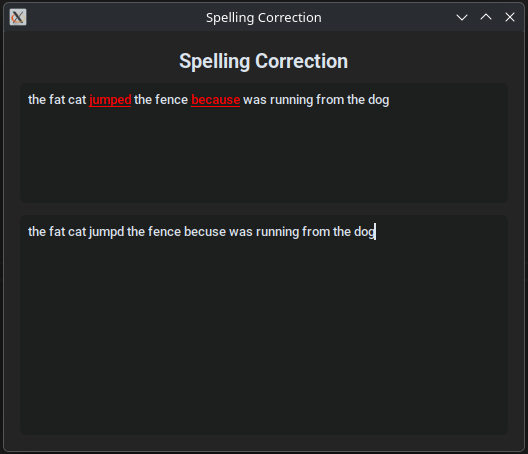
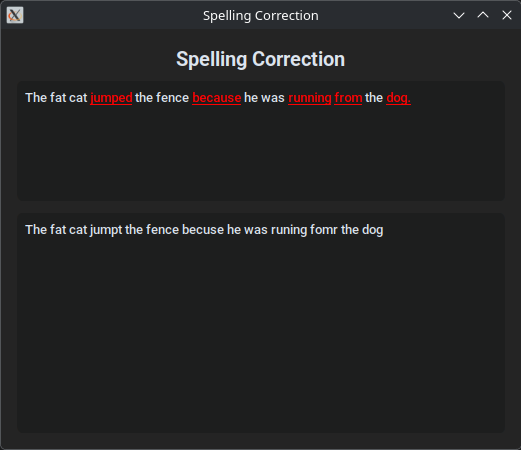
Added GUI inference using the latest trained spelling correction model. The interface now loads the fine-tuned model and displays corrected text from user input.

Changed region(s): [[0.0, 0.0, 1.0, 1.0], [0.3378, 0.0933, 0.6756, 0.1556], [0.3071, 0.4978, 0.737, 0.5289]]

diff --git a/main.py b/main.py
@@ -1,0 +1,179 @@
+import difflib
+import customtkinter as ctk
+import torch
+from transformers import AutoModelForCausalLM, AutoTokenizer, pipeline
+
+class SpellingGUI:
+    def __init__(self):
+        self.model_path = './qwen_spelling_model/final'
+        self.device = 'cuda' if torch.cuda.is_available() else 'cpu'
+        self.after_id = None
+
+        self.tokenizer = AutoTokenizer.from_pretrained(
+            self.model_path,
+        )
+
+        self.model = AutoModelForCausalLM.from_pretrained(
+            self.model_path,
+            dtype=torch.bfloat16 if self.device == 'cuda' else torch.float32,
+        ).to(self.device)
+
+        self.model.eval()
+
+        self.pipe = pipeline(
+            'text-generation',
+            model=self.model,
+            tokenizer=self.tokenizer,
+        )
+
+    def mirror_text(self, event=None):
+        if self.after_id:
+            self.input_box.after_cancel(self.after_id)
+
+        self.after_id = self.input_box.after(
+            500,
+            self.correct_text,
+        )
+
+    def correct_text(self):
+        content = self.input_box.get('1.0', 'end-1c').strip()
+
+        if not content:
+            self.update_output('', '')
+            return
+
+        messages = [
+            {
+                'role': 'user',
+                'content': content,
+            }
+        ]
+
+        prompt = self.tokenizer.apply_chat_template(
+            messages,
+            tokenize=False,
+            add_generation_prompt=True,
+            enable_thinking=False,
+        )
+
+        output = self.pipe(
+            prompt,
+            max_new_tokens=128,
+            do_sample=False,
+            return_full_text=False,
+            pad_token_id=self.tokenizer.eos_token_id,
+        )
+
+        corrected_text = output[0]['generated_text'].strip()
+
+        self.update_output(
+            content,
+            corrected_text,
+        )
+
+    def update_output(self, original_text, corrected_text):
+        self.output_box.configure(state='normal')
+        self.output_box.delete('1.0', 'end')
+
+        original_words = original_text.split()
+        corrected_words = corrected_text.split()
+
+        matcher = difflib.SequenceMatcher(
+            None,
+            original_words,
+            corrected_words,
+        )
+
+        output_words = []
+        styled_words = []
+
+        for operation, _, _, corrected_start, corrected_end in matcher.get_opcodes():
+            words = corrected_words[corrected_start:corrected_end]
+
+            output_words.extend(words)
+            styled_words.extend(
+                [operation != 'equal'] * len(words)
+            )
+
+        for index, (word, styled) in enumerate(zip(output_words, styled_words)):
+            if index > 0:
+                self.output_box.insert('end', ' ')
+
+            start = self.output_box.index('end-1c')
+            self.output_box.insert('end', word)
+            end = self.output_box.index('end-1c')
+
+            if styled:
+                self.output_box.tag_add(
+                    'corrected',
+                    start,
+                    end,
+                )
+
+        self.output_box.configure(state='disabled')
+
+    def main_view(self):
+        ctk.set_appearance_mode('System')
+        ctk.set_default_color_theme('blue')
+
+        app = ctk.CTk()
+        app.title('Spelling Correction')
+        app.geometry('520x420')
+
+        title = ctk.CTkLabel(
+            app,
+            text='Spelling Correction',
+            font=ctk.CTkFont(
+                size=20,
+                weight='bold',
+            ),
+        )
+        title.pack(pady=(16, 8))
+
+        self.output_box = ctk.CTkTextbox(
+            app,
+            width=480,
+            height=120,
+            wrap='word',
+        )
+        self.output_box.pack(
+            padx=16,
+            pady=(0, 12),
+            fill='both',
+            expand=False,
+        )
+        self.output_box.configure(state='disabled')
+        self.output_box.tag_config(
+            'corrected',
+            underline=1,
+            foreground='red',
+        )
+
+        self.input_box = ctk.CTkTextbox(
+            app,
+            width=480,
+            height=160,
+            wrap='word',
+        )
+        self.input_box.pack(
+            padx=16,
+            pady=(0, 16),
+            fill='both',
+            expand=True,
+        )
+
+        self.input_box.bind(
+            '<KeyRelease>',
+            self.mirror_text,
+        )
+        self.input_box.bind(
+            '<<Paste>>',
+            self.mirror_text,
+        )
+
+        app.mainloop()
+
+
+if __name__ == '__main__':
+    gui = SpellingGUI()
+    gui.main_view()